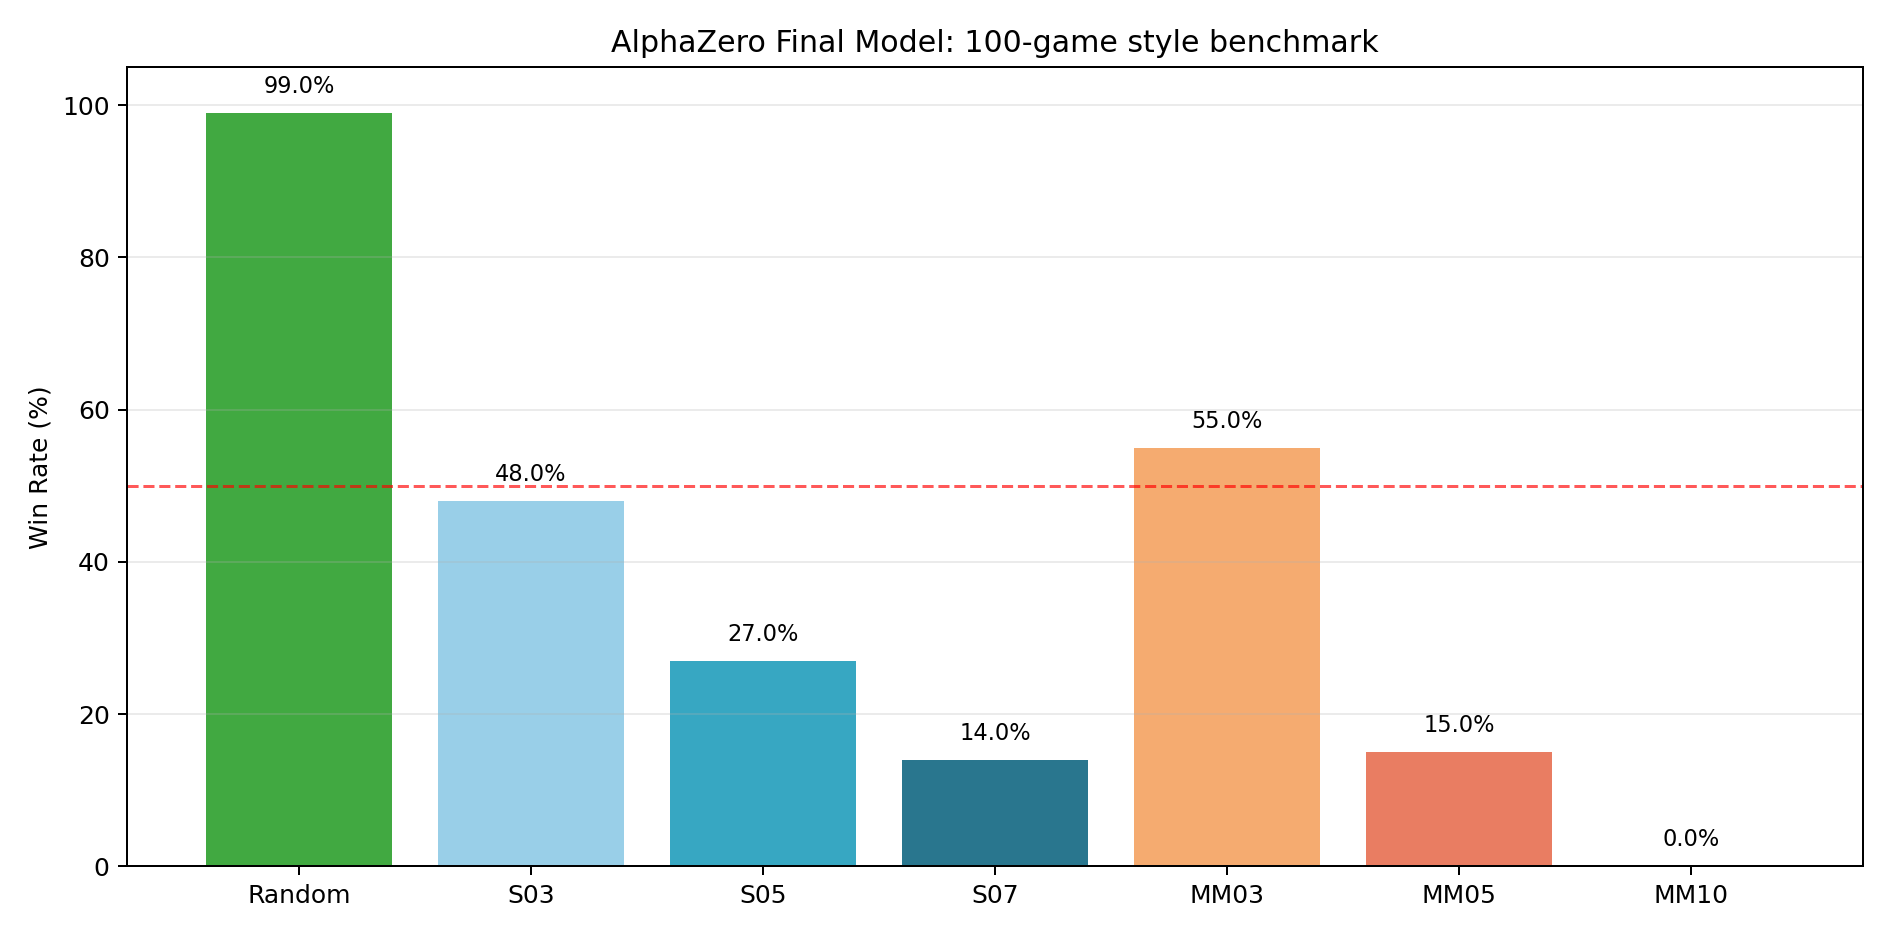
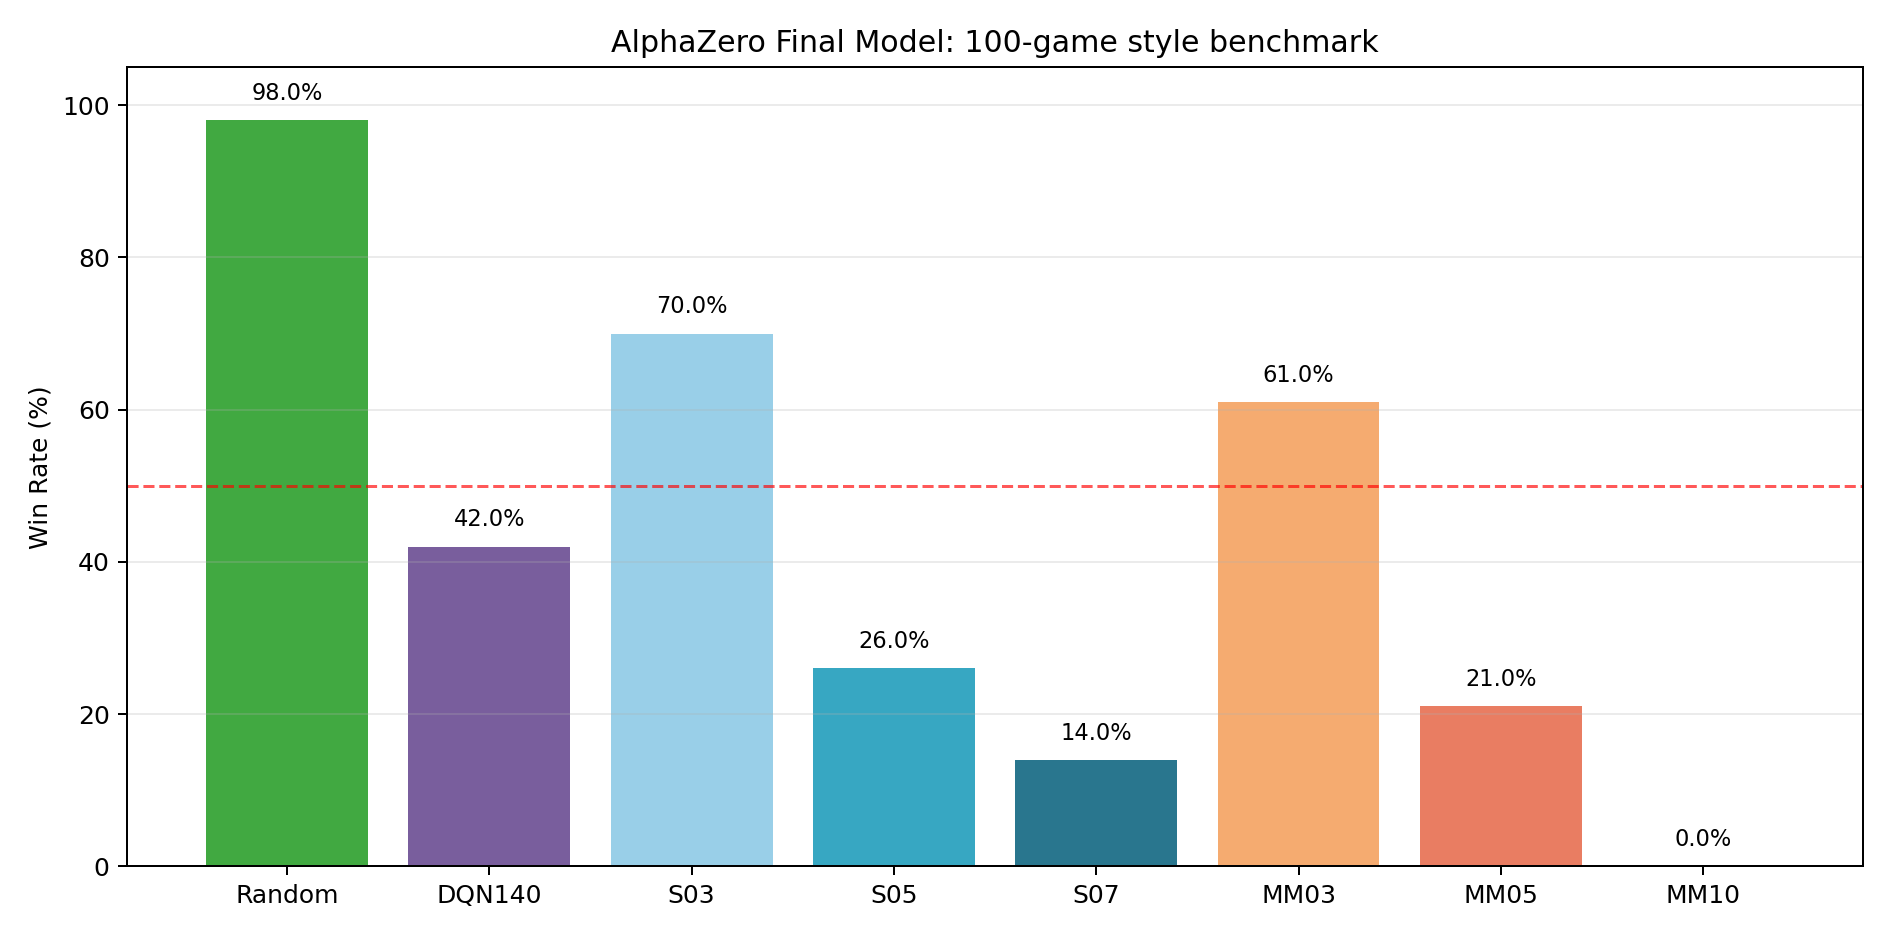
fix: bug with gen 2 default

diff --git a/main.py b/main.py
@@ -29,6 +29,7 @@ MODEL_PRESETS = {
 }
 
 DEFAULT_DQN_MODEL = "gen3"
+DEFAULT_DQN_SIMPLE_MODEL = "gen2"
 DEFAULT_AZ_MODEL = "gen4"
 
 # Single place to configure default headless matchup.
@@ -56,8 +57,10 @@ HEADLESS_AGENT_CHOICES = [
 
 
 def default_model_path_for_agent(agent_name):
-    if agent_name in ("dqn", "dqn_simple"):
+    if agent_name == "dqn":
         return MODEL_PRESETS[DEFAULT_DQN_MODEL]["path"]
+    if agent_name == "dqn_simple":
+        return MODEL_PRESETS[DEFAULT_DQN_SIMPLE_MODEL]["path"]
     if agent_name == "alphazero":
         return MODEL_PRESETS[DEFAULT_AZ_MODEL]["path"]
     return None

diff --git a/results/alphazero_benchmarks/alphazero_report.md b/results/alphazero_benchmarks/alphazero_report.md
@@ -4,20 +4,21 @@ Final model evaluated: `models_alphazero_two_phase/alphazero_final.pt`
 
 ## Best checkpoint (progression suite)
 
-- Best vs Random: iter 50 (100.0%)
-- Best vs Strategic-0.5: iter 60 (36.7%)
-- Best vs Minimax-0.5: iter 80 (20.0%)
+- Best vs Random: iter 30 (100.0%)
+- Best vs Strategic-0.5: iter 70 (46.7%)
+- Best vs Minimax-0.5: iter 100 (30.0%)
 
 ## Final benchmark table
 
 | Opponent | Games | Win rate |
 |---|---:|---:|
-| Random | 100 | 99.0% |
-| S03 | 100 | 48.0% |
-| S05 | 100 | 27.0% |
+| Random | 100 | 98.0% |
+| DQN140 | 100 | 42.0% |
+| S03 | 100 | 70.0% |
+| S05 | 100 | 26.0% |
 | S07 | 100 | 14.0% |
-| MM03 | 100 | 55.0% |
-| MM05 | 100 | 15.0% |
+| MM03 | 100 | 61.0% |
+| MM05 | 100 | 21.0% |
 | MM10 | 100 | 0.0% |
 
 ## Output files
